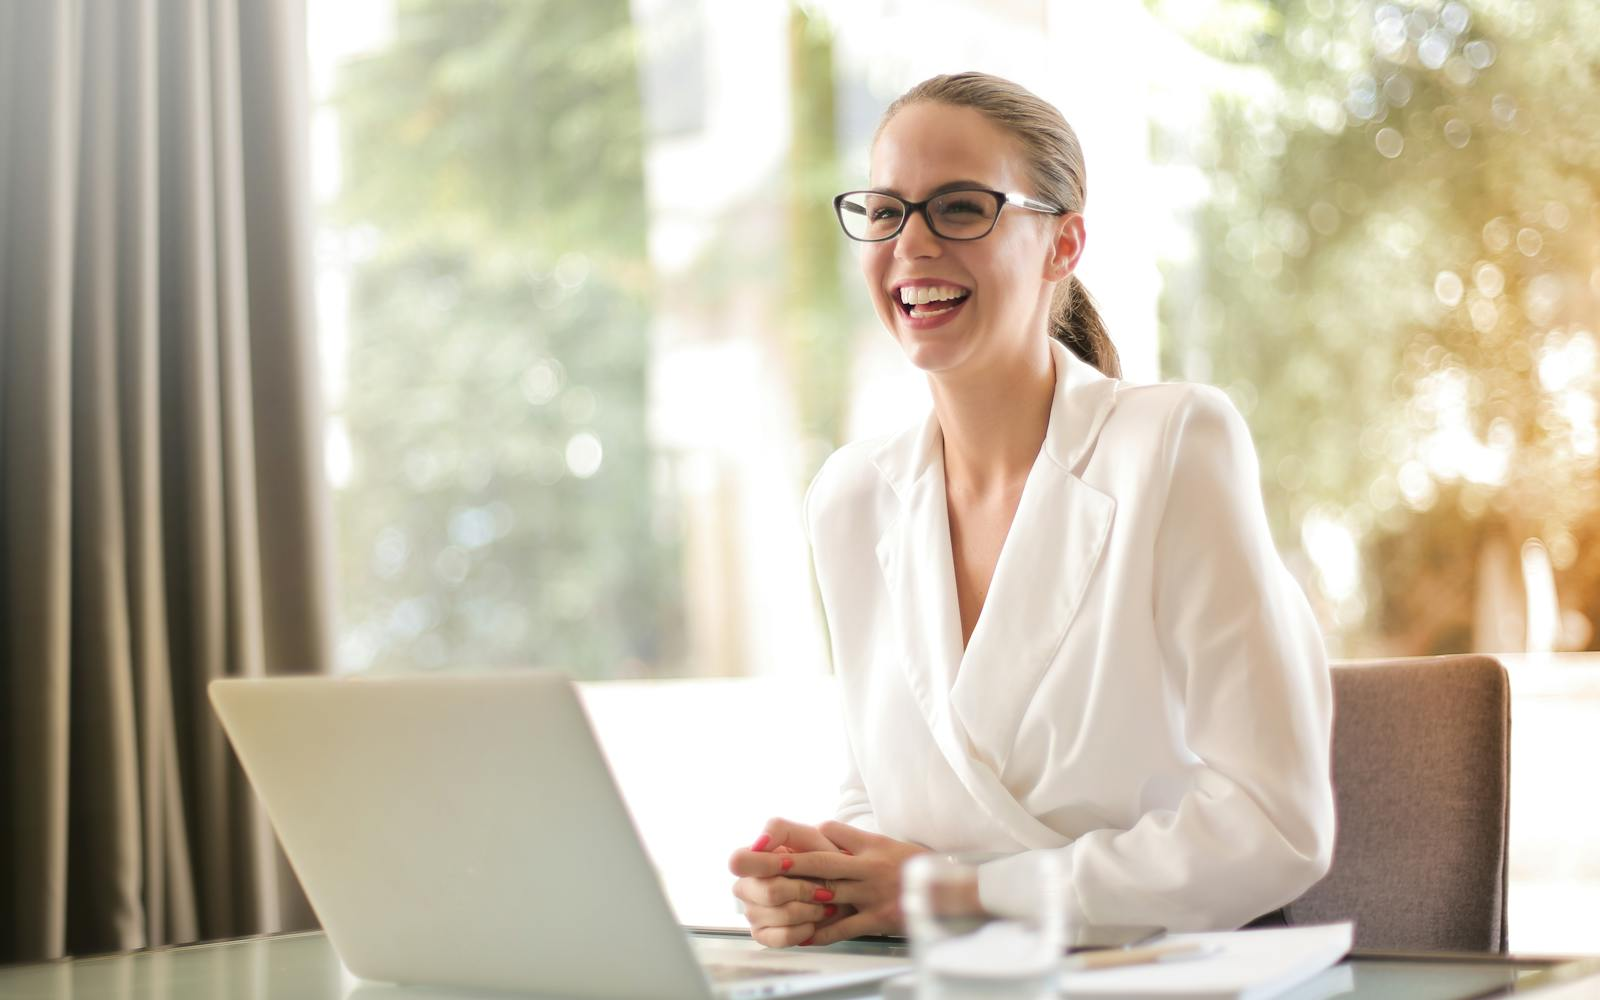
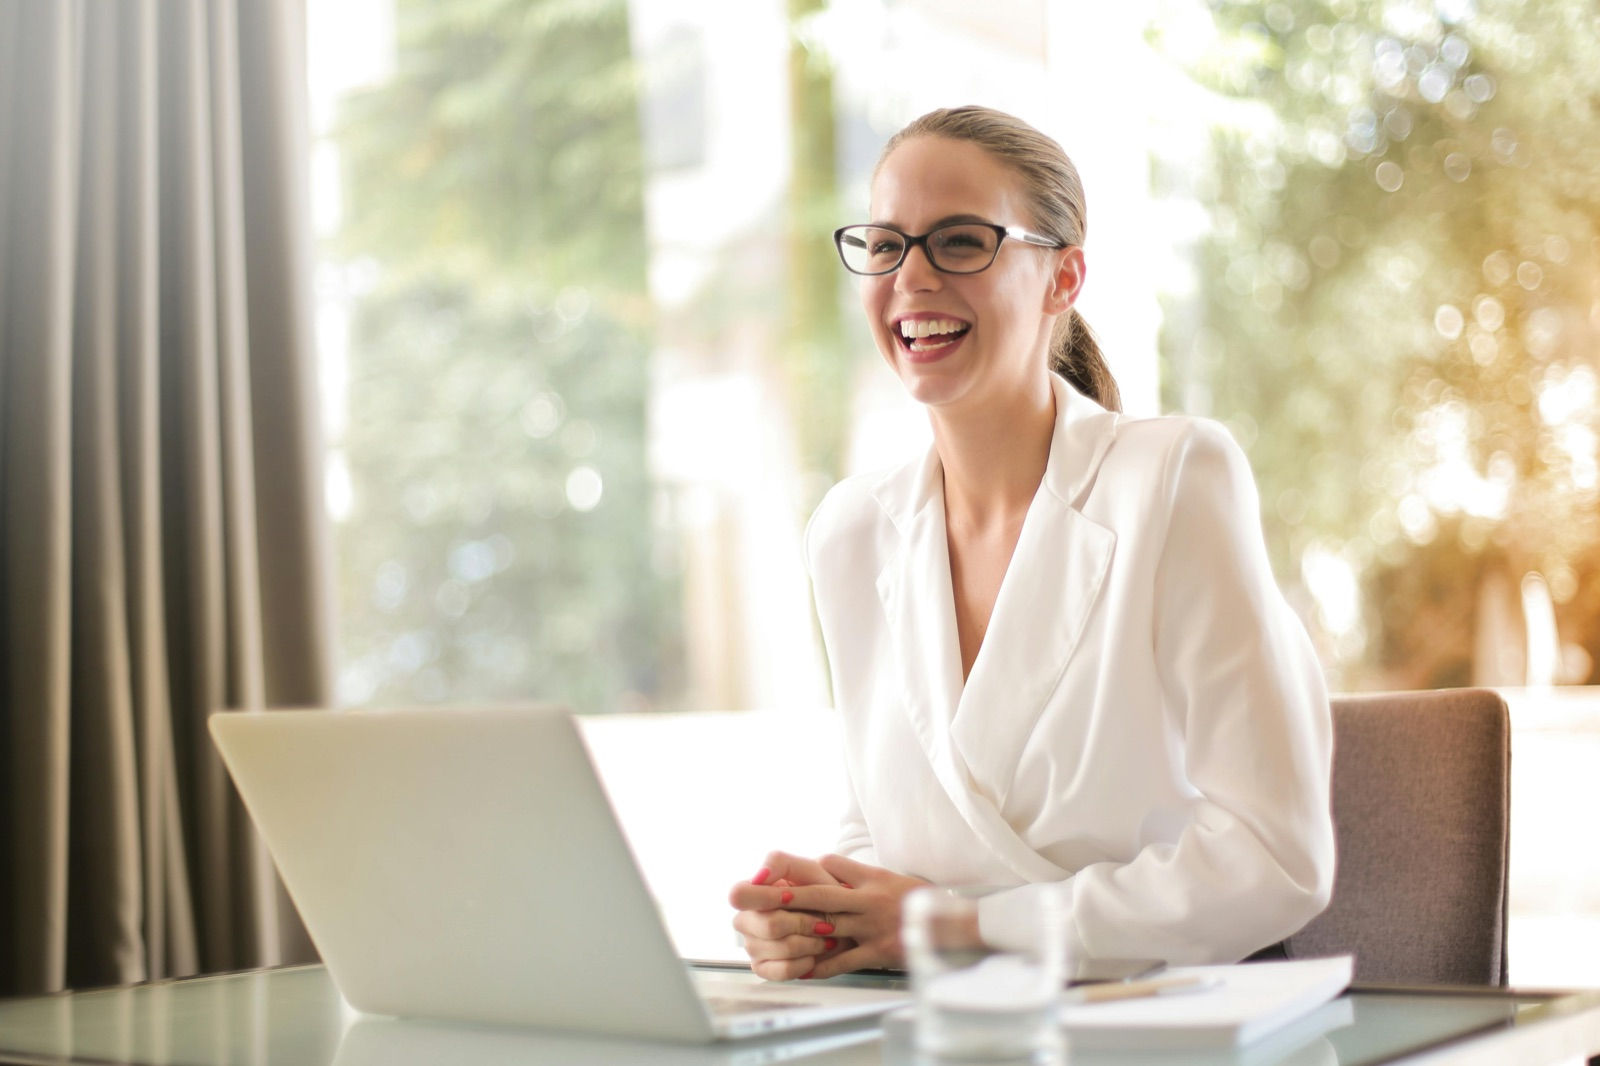
landing: ultra-HD hero photos — new warm family shot for #freetime; 4K (3456-3840px) @user assets served to desktop/retina via media query, light 1600px to mobile; image-set'd both full-screen sections

diff --git a/meg/index.html b/meg/index.html
@@ -470,8 +470,14 @@ footer a:hover{color:var(--blue)}
 .fullshot .fs-k{font-size:14px;font-weight:600;letter-spacing:.05em;color:rgba(255,255,255,.9);text-transform:uppercase;text-shadow:0 1px 12px rgba(0,0,0,.45)}
 .fullshot h2{font-size:clamp(36px,6.2vw,76px);font-weight:600;letter-spacing:-.03em;line-height:1.04;margin:12px 0 0;color:#fff;text-shadow:0 2px 26px rgba(0,0,0,.5)}
 .fullshot p{font-size:clamp(18px,2.3vw,25px);line-height:1.4;margin:20px auto 0;color:rgba(255,255,255,.95);max-width:660px;text-shadow:0 1px 18px rgba(0,0,0,.55)}
+.fs-owner{background-image:url('img/hero_owner.jpg')}
+.fs-freetime{background-image:url('img/hero_freetime.jpg')}
+@media (min-width:1024px){
+  .fs-owner{background-image:url('img/[email redacted]')}
+  .fs-freetime{background-image:url('img/[email redacted]')}
+}
 </style>
-<section class="fullshot" style="background-image:url('img/hero_owner.jpg')">
+<section class="fullshot fs-owner">
   <div class="fs-in reveal">
     <span class="fs-k">MEG Web Studio</span>
     <h2>Più clienti,<br>meno pensieri.</h2>
@@ -651,7 +657,7 @@ footer a:hover{color:var(--blue)}
     </div></div>
   </div>
 </div></div></section>
-<section class="fullshot" style="background-image:url('img/hero_freetime.jpg')">
+<section class="fullshot fs-freetime">
   <div class="fs-in reveal">
     <span class="fs-k">Il tuo tempo</span>
     <h2>Tu vivi.<br>Al resto pensiamo noi.</h2>